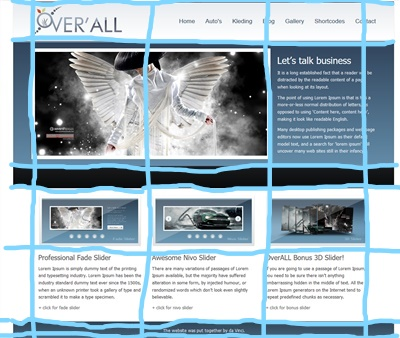
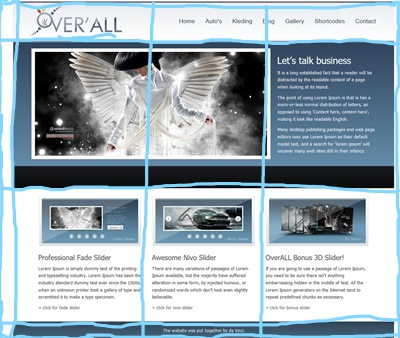
text toegevoegd

Changed region(s): [[0.0, 0.0, 1.0, 1.0]]

diff --git a/frontpage.html b/frontpage.html
@@ -1,21 +1,33 @@
 <!DOCTYPE html>
+<!DOCTYPE html>
 <html>
 <head>
 	<link type="text/css" rel="stylesheet" href="style.css">
 	<title></title>
 </head>
 <body>
-	<section class= "grid-container">
-		<header>
-			test
-		</header>
+	<section class="grid-container">
+		
+			<div class= "logo"> <img src="img/logo.png"></div>
 
-		<main>
-			test
-		</main>
-		
-		
+			<div class= "banner"> <img src="img/banner.jpg"></div>
+
+			<div class= "bannerbg"> <img src="img/banner_bg.png"></div>
+
+			<div class= "fadeslide"> <img src="img/fade-slider.png"></div>
+
+			<div class= "nivoslide"> <img src="img/nivo-slider.png"></div>
+
+			<div class= "bonusslide"> <img src="img/bonus-3d-slider.png"></div>
+
+			<div class= "footer"> <img src="img/footer_bg.png"></div>
+
+			<div class= "fadetext"> <p>de nieuwe fade fade texkt test niet echt langfe text nodig blijben typen met alleen maar type fouten maar dat maakt niet uit aangezien dit toch weer weg word gehaald want dit is gwn een test</p></div>
+
+			<div class= "nivotext"> <p>de nieuwe fade fade texkt test niet echt langfe text nodig blijben typen met alleen maar type fouten maar dat maakt niet uit aangezien dit toch weer weg word gehaald want dit is gwn een test</p></div>
+
+			<div class= "bonustext"> <p>de nieuwe fade fade texkt test niet echt langfe text nodig blijben typen met alleen maar type fouten maar dat maakt niet uit aangezien dit toch weer weg word gehaald want dit is gwn een test</p></div>
+
 	</section>
-
 </body>
 </html>

diff --git a/style.css b/style.css
@@ -1,16 +1,73 @@
+  
 .grid-container{
 	display: grid;
-	grid-template-columns: 50px 100px 100px 100px 50px;
-	grid-template-rows: 50px 500px 50px 100px 25px;
+	grid-template-columns: auto 350px 350px 350px auto;
+	grid-template-rows: 100px 400px 400px 45px;
 	grid-gap: 10px;
 }
 
-header{
-	grid-template-columns: 2/3;
-	grid-template-rows: 1/2;
+
+
+.logo{
+	grid-column: 2/3;
+	grid-row: 1/2;
 }
 
-main{
-	grid-template-columns: 2/3;
-	grid-template-rows: 3/4;
+.banner{
+	grid-column: 2/4;
+	grid-row: 2/3;
+}
+
+.bannerbg{
+	grid-column: 2/5;
+	grid-row: 2/3;
+	background-image: url("img/banner_bg.png");
+}
+
+.fadeslide{
+	grid-column: 2/3;
+	grid-row: 3/4;
+	padding-left: 55px;
+}
+
+.nivoslide{
+	grid-column: 3/4;
+	grid-row: 3/4;
+	padding-left: 30px;
+}
+
+.bonusslide{
+	grid-column: 4/5;
+	grid-row: 3/4;
+}
+
+.footer{
+	grid-column: 2/5;
+	grid-row: 4/5;
+	background-image: url("img/footer_bg.png");
+}
+
+.fadetext{
+	grid-column: 2/3;
+	grid-row: 3/4;
+	margin-left: 60px;
+	margin-top: 140px;
+	margin-right: 5px;
+}
+
+.nivotext{
+	grid-column: 3/4;
+	grid-row: 3/4;
+	margin-top: 140px;
+	margin-left: 35px;
+	margin-right: 5px;
+}
+
+.bonustext{
+	grid-column: 4/5;
+	grid-row: 3/4;
+	margin-top: 140px;
+	margin-right: 38px;
+	margin-left: 5px;
+
 }
